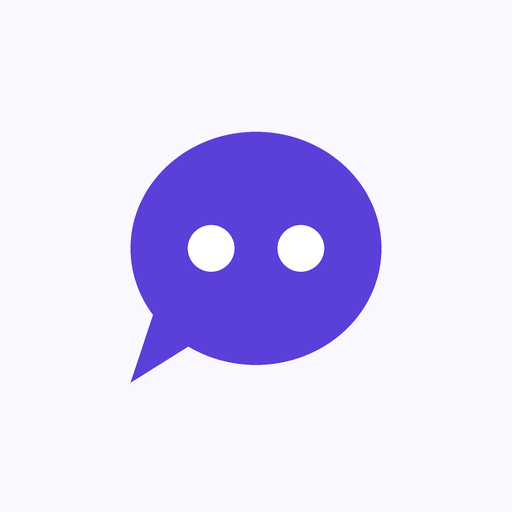
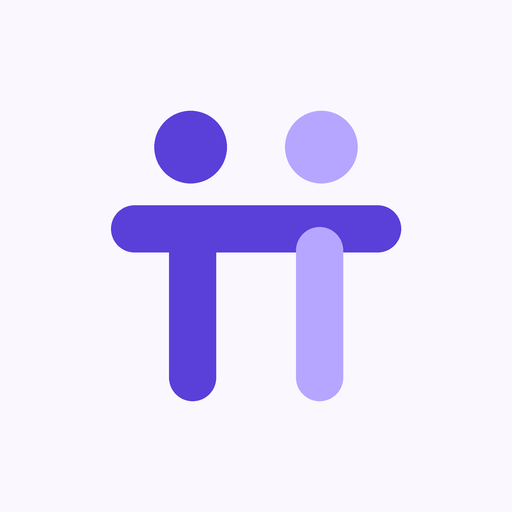
Version 0.27.1: logotipo de la pi
Claude-Session: https://claude.ai/code/session_01C9GqdJ5Kuf8zqfTo8KSkgq

Changed region(s): [[0.2188, 0.2188, 0.7812, 0.7812]]

diff --git a/marcas.js b/marcas.js
@@ -1,9 +1,9 @@
 "use strict";
-/* Símbolo de Pippole: un bocadillo con dos puntos (dos personas que hablan).
-   Sustituye a los logos de marca anteriores: la interfaz no muestra ninguno. */
-function simboloPippole(px, fondo) {
+/* Símbolo de Pippole: dos personas que sostienen juntas una barra y forman
+   una π, el «pi» con el que empieza el nombre. */
+function simboloPippole(px) {
   const p = px || 32;
-  return `<svg class="pp-simbolo" width="${p}" height="${p}" viewBox="0 0 40 40" aria-hidden="true"><path d="M6 18a14 13 0 1 1 7 11.3L6 33l2.2-6.6A12.8 12.8 0 0 1 6 18z" fill="var(--red)"></path><circle cx="15" cy="18" r="2.4" fill="${fondo || "#FFFFFF"}"></circle><circle cx="25" cy="18" r="2.4" fill="${fondo || "#FFFFFF"}"></circle></svg>`;
+  return `<svg class="pp-simbolo" width="${p}" height="${p}" viewBox="0 0 48 48" aria-hidden="true"><circle cx="15" cy="9" r="5" fill="var(--red)"></circle><circle cx="33" cy="9" r="5" fill="#B6A6FF"></circle><rect x="4" y="17" width="40" height="6.5" rx="3.25" fill="var(--red)"></rect><rect x="12" y="20" width="6.5" height="24" rx="3.25" fill="var(--red)"></rect><rect x="29.5" y="20" width="6.5" height="24" rx="3.25" fill="#B6A6FF"></rect></svg>`;
 }
 /* Nombres antiguos, mantenidos para no tocar cada pantalla */
 function logoSEB(alto) { return simboloPippole(alto || 34); }

diff --git a/index.html b/index.html
@@ -6,10 +6,10 @@
 <meta name="robots" content="noindex, nofollow">
 <title>Pippole</title>
 <meta name="description" content="Pippole, plataforma de Recursos Humanos.">
-<link rel="icon" href="favicon.svg?v=27" type="image/svg+xml">
-<link rel="icon" href="favicon-32.png?v=27" sizes="32x32" type="image/png">
+<link rel="icon" href="favicon.svg?v=28" type="image/svg+xml">
+<link rel="icon" href="favicon-32.png?v=28" sizes="32x32" type="image/png">
 <link rel="preload" href="fonts/plus-jakarta-sans-latin-wght-normal.woff2" as="font" type="font/woff2" crossorigin>
-<link rel="apple-touch-icon" href="apple-touch-icon.png?v=27">
+<link rel="apple-touch-icon" href="apple-touch-icon.png?v=28">
 <link rel="manifest" href="manifest.json">
 <meta name="theme-color" content="#FBF7FF" media="(prefers-color-scheme: light)">
 <meta name="theme-color" content="#15121F" media="(prefers-color-scheme: dark)">

diff --git a/supabase/functions/enviar-invitacion/index.ts b/supabase/functions/enviar-invitacion/index.ts
@@ -133,7 +133,7 @@ ${quien.nombre}`;
   <tr><td style="height:5px;background:${R};font-size:0;line-height:0;border-radius:13px 13px 0 0">&nbsp;</td></tr>
 
   <tr><td class="pad" style="padding:30px 36px 0">
-    <div style="font:700 21px/1.2 ${SANS};color:${TINTA};letter-spacing:-.01em"><span style="color:${R}">&#9679;</span> pippole</div>
+    <div style="font:700 21px/1.2 ${SANS};color:${TINTA};letter-spacing:-.01em"><span style="color:${R}">&#960;</span> pippole</div>
     <div style="font:600 10.5px/1.4 ${SANS};color:${GRIS};letter-spacing:.11em;text-transform:uppercase;padding-top:7px">Plataforma de Recursos Humanos</div>
   </td></tr>
 

diff --git a/app.js b/app.js
@@ -1,5 +1,5 @@
 "use strict";
-const APP_VERSION = "0.27.0";
+const APP_VERSION = "0.27.1";
 /* Ítems del cualitativo que el evaluador ha desplegado a mano. Vive fuera
    del estado porque es preferencia de pantalla, no dato que guardar. */
 const ITEMS_ABIERTOS = new Set();

diff --git a/CLAUDE.md b/CLAUDE.md
@@ -14,7 +14,7 @@ Este repositorio es **público**: aquí no van datos de personas, claves secreta
 - Identidad «Cercana»:
   - Color principal violeta `#5B3FD9` (variable CSS `--red` por historia; el nombre se mantiene), tinta `#231A3D`, fondo `#FBF7FF`, con tema oscuro.
   - Tipografía Plus Jakarta Sans, alojada en `fonts/`. Sin Google Fonts: evita mandar la IP de quien entra a terceros.
-  - Logotipo «pippole» en minúsculas (`marca.js`) y símbolo de un bocadillo con dos puntos (`simboloPippole()` en `marcas.js`). `logoSEB()` y `bandaMarcas()` son nombres heredados: el primero devuelve el símbolo y el segundo nada.
+  - Logotipo «pippole» en minúsculas (`marca.js`) y símbolo de la **π**: dos personas que sostienen juntas una barra (`simboloPippole()` en `marcas.js`, `favicon.svg`; desde 0.27.1). `logoSEB()` y `bandaMarcas()` son nombres heredados: el primero devuelve el símbolo y el segundo nada.
 - El lienzo con las cuatro direcciones de marca estudiadas está en claude.ai (artefacto «Pippole · Direcciones de marca»). La elegida es la 2, «Cercana».
 
 ## Siguiente trabajo acordado: Pippole genérica + configuración por cliente
@@ -77,7 +77,7 @@ Hay que proponer el diseño antes de construir, porque toca la base de datos. Al
   - `publicar-pages.yml`: publica.
   - `mantener-supabase.yml`: cada 3 días, para que el plan gratuito no pause el proyecto. Da por buena la respuesta 42501.
   - `desplegar-funciones.yml`: **falla** porque faltan `SUPABASE_ACCESS_TOKEN` (secreto) y `SUPABASE_PROJECT_REF` (variable) en GitHub. Mientras falten, la función de correo se despliega pegando el código en el panel de Supabase.
-- **Versiones**: `APP_VERSION` en `app.js` y una entrada en `CHANGELOG.md`, siempre las dos. Versión actual: **0.27.0**.
+- **Versiones**: `APP_VERSION` en `app.js` y una entrada en `CHANGELOG.md`, siempre las dos. Versión actual: **0.27.1**.
 
 ## Cómo comprobar los cambios
 - La web no tiene compilación: se prueba sirviendo la carpeta (`python3 -m http.server`) y abriendo `?demo`.

diff --git a/CHANGELOG.md b/CHANGELOG.md
@@ -263,6 +263,10 @@ La plataforma pasa a llamarse **Pippole** y se sirve en www.pippole.es. Identida
   - «Atrás» vuelve a la ficha de la tienda.
   - El menú general de apartados sigue debajo, como antes.
 
+## 0.27.1 · 16/11/2026 · **SQL: no**
+- **Logotipo nuevo: la π de pippole.** Dos personas que sostienen juntas una barra y forman una π, el «pi» con el que empieza el nombre. Sustituye al bocadillo en la cabecera, la pantalla de acceso, los informes, el icono de pestaña y de app, y el correo (donde aparece como «π pippole»).
+- El icono de pestaña cambia de nombre (`favicon.svg?v=28`), así el navegador no muestra uno antiguo guardado.
+
 ## Cómo numerar
 - Cambio de textos o estilos: sube el tercer número (0.9.1).
 - Apartado nuevo o cambio de funcionamiento: el segundo (0.10.0).
